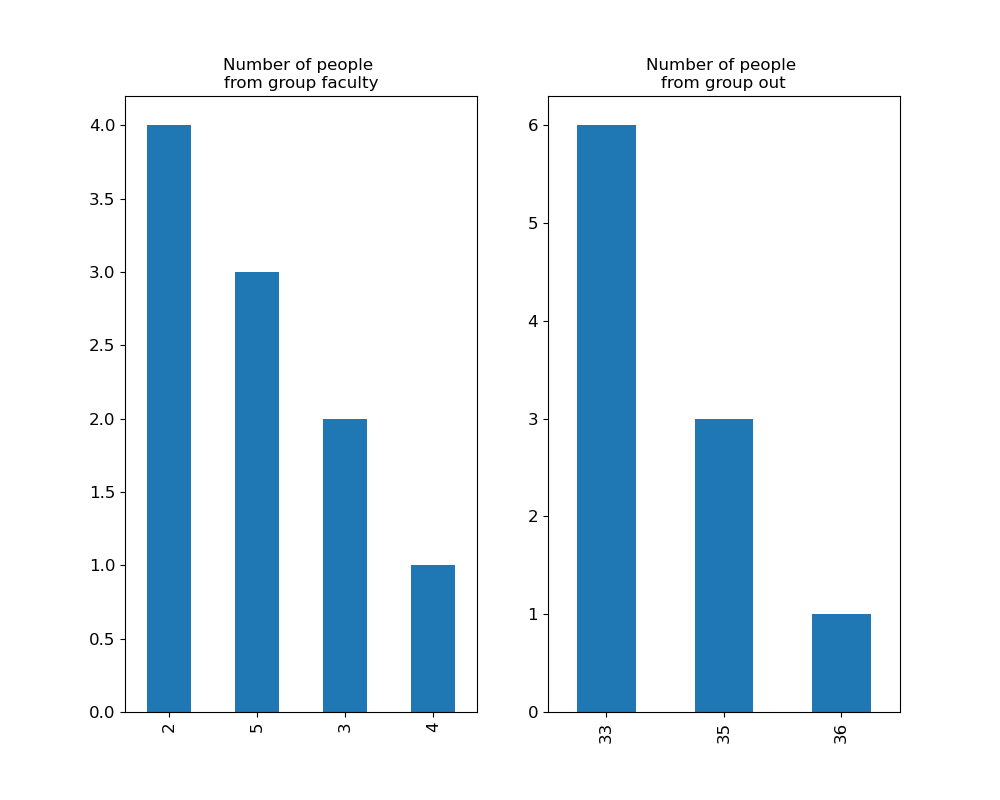
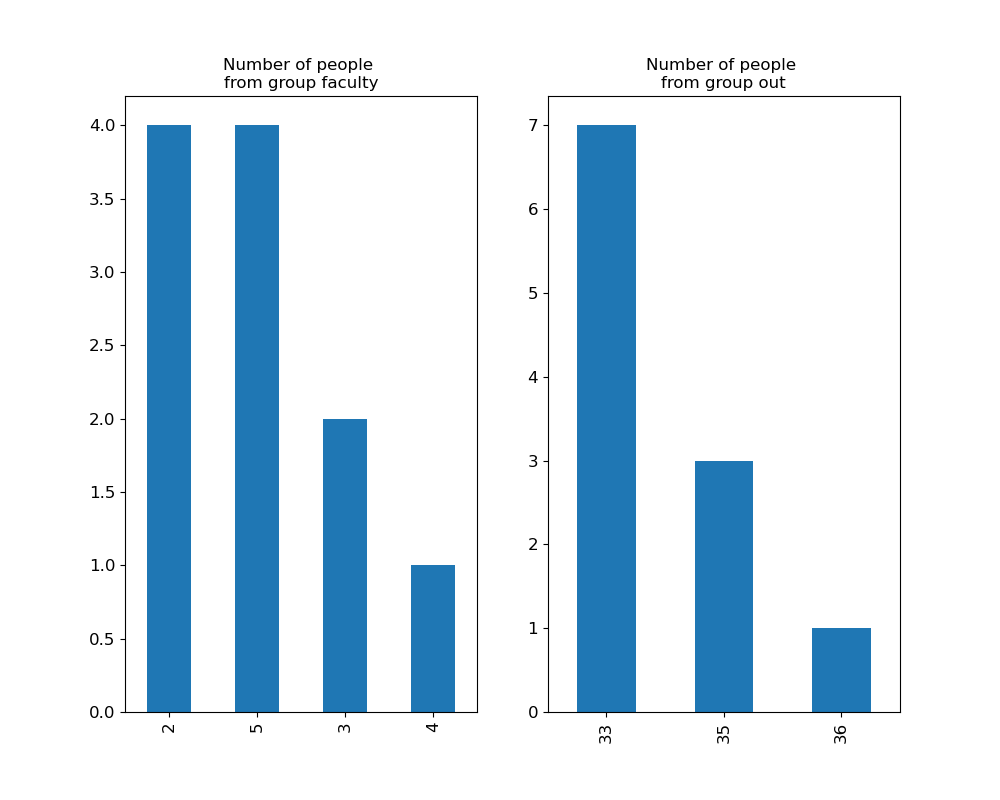
Issues

diff --git a/Lab_2_Pandas/Episode3/Task1_2.py b/Lab_2_Pandas/Episode3/Task1_2.py
@@ -5,18 +5,14 @@ fig1, axes = plt.subplots(nrows=1, ncols=2)
 
 ejudge = pd.read_html('students/results_ejudge.html', index_col=0)[0]
 students = pd.read_excel('students/students_info.xlsx')
-good_results = ejudge.loc[(ejudge['H'] > 10) | (ejudge['H'] > 10)]
-plot1 = pd.DataFrame({"number of students": students.loc[students['login'].
-                   isin(good_results['User'])]['group_faculty'].value_counts().values},
-                     index=students.loc[students['login'].isin(good_results['User'])]['group_faculty'].
-                   value_counts().index)
-plot1.plot.bar(ax=axes[0], fontsize=12, figsize=(10, 8),
-               title='Number of people \nfrom group faculty', legend=False)
-plot2 = pd.DataFrame({"number of students": students.loc[students['login'].
-                   isin(good_results['User'])]['group_out'].value_counts().values},
-                     index=students.loc[students['login'].isin(good_results['User'])]['group_out'].
-                   value_counts().index)
-plot2.plot.bar(ax=axes[1], fontsize=12, figsize=(10, 8),
-               title='Number of people \nfrom group out', legend=False)
-plt.savefig('Number of students how passed tests in last problems.png')
+newdata = students.merge(ejudge, how='inner', left_on='login', right_on='User')
+good_results = newdata.loc[(newdata['H'] > 10) | (newdata['G'] > 10)]
+good_results[['group_out', 'group_faculty']].groupby('group_out').count().\
+    plot(kind='bar', rot=0, ax=axes[0],
+    title='Number of people \nfrom group faculty', fontsize=8, legend=False)
+
+good_results[['group_out', 'group_faculty']].groupby('group_faculty').count().\
+    plot(kind='bar', rot=0, ax=axes[1],
+    title='Number of people \nfrom group out', fontsize=8, legend=False)
+
 plt.show()

diff --git a/Lab_2_Pandas/Episode3/Task1.py b/Lab_2_Pandas/Episode3/Task1.py
@@ -6,20 +6,14 @@ fig1, axes = plt.subplots(nrows=1, ncols=2)
 ejudge = pd.read_html('students/results_ejudge.html', index_col=0)[0]
 students = pd.read_excel('students/students_info.xlsx')
 
-plot1 = pd.DataFrame({'Mean number of solved problems':
-                    [ejudge.loc[(ejudge['User'].isin(students.loc[(students['group_faculty'] == i),
-                    'login']))]['Solved'].mean() for i in students['group_faculty'].unique()]},
-                     index=students['group_faculty'].unique())
-print(plot1)
-plot1.plot.bar(ax=axes[0], fontsize=12, figsize=(10, 8),
-               title='Mean number of solved problems\nby group faculty', legend=False)
-plot2 = pd.DataFrame({'Mean number of solved problems':
-                    [ejudge.loc[(ejudge['User'].isin(students.loc[(students['group_out'] == i),
-                    'login']))]['Solved'].mean() for i in students['group_out'].unique()]},
-                     index=students['group_out'].unique())
+newdata = students.merge(ejudge, how='inner', left_on='login', right_on='User')
 
-plot2.plot.bar(ax=axes[1], fontsize=12, figsize=(10, 8),
-               title='Mean number of solved problems\nby group out', legend=False)
+newdata[['group_faculty', 'Solved']].groupby('group_faculty').\
+    mean().plot(kind='bar', rot=0, ax=axes[0],
+                title='Mean number of solved\nproblems by group faculty', fontsize=8, legend=False)
+newdata[['group_out', 'Solved']].groupby('group_out').\
+    mean().plot(kind='bar', rot=0, ax=axes[1],
+                title='Mean number of solved\nproblems by group out', legend=False)
 
 plt.savefig('Mean number of solved problems.png')
 plt.show()

diff --git a/Lab_3_NumPy/Episode1/Episode1.py b/Lab_3_NumPy/Episode1/Episode1.py
@@ -4,6 +4,7 @@ from PIL import Image
 for i in range(3):
     img = Image.open(f'lunar0{i + 1}_raw.jpg')
     data = np.array(img)
+    data = data - data.min()
     data *= int(255 / (data - data.min()).max())
     res_img = Image.fromarray(data)
     res_img.save(f'updated_lunar0{i + 1}_raw.jpg')
